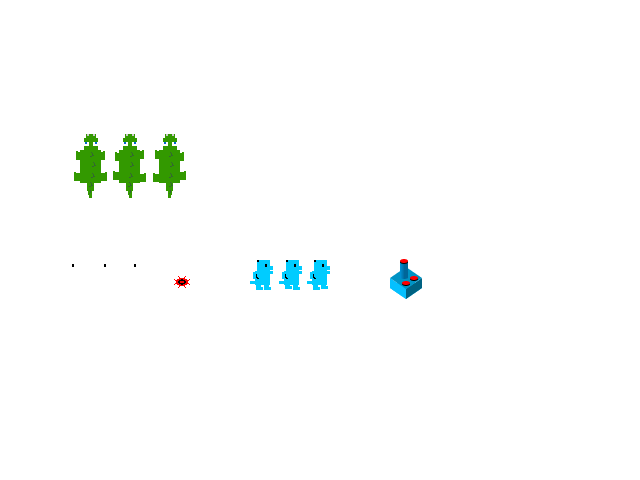
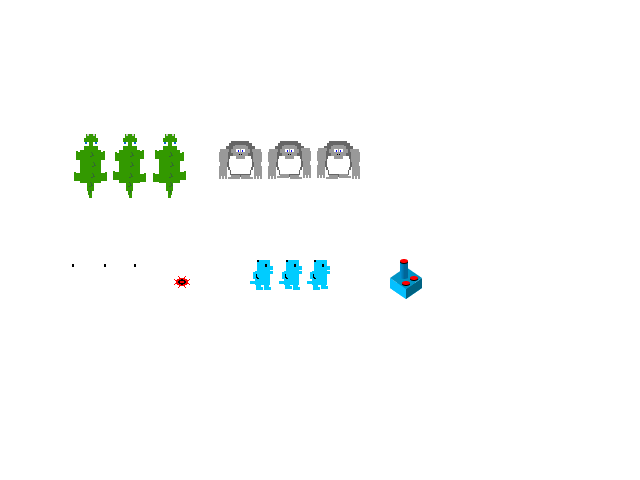
Gorilla

Changed region(s): [[0.3438, 0.2812, 0.5625, 0.375]]

diff --git a/SampleGames/Eater/index.html b/SampleGames/Eater/index.html
@@ -20,6 +20,7 @@
 	
     <script language="Javascript" src="scripts/glfx.js"></script>
     
+    <script language="Javascript" src="scripts/background.js"></script>
     <script language="Javascript" src="scripts/player.js"></script>
     <script language="Javascript" src="scripts/foots.js"></script>
     <script language="Javascript" src="scripts/hazards.js"></script>
@@ -123,7 +124,7 @@
     var hazardsContainer = jsGFwk.Container.createContainer("hazardsCloner", Hazards, true);
     
     jsGFwk.Scenes.create({name: "game", 
-        gameObjects: [Player, LevelController, footsContainer,
+        gameObjects: [Background, Player, LevelController, footsContainer,
                       hazardsContainer, Foreground, Timing] });
     
     jsGFwk.Scenes.create({name: "hud", 
@@ -147,6 +148,13 @@
              {left: 113, top: 134, width: 33, height: 64},
              {left: 153, top: 134, width: 33, height: 64}]);
         jsGFwk.Sprites.crocodile.loop(true);
+        
+        jsGFwk.Sprites.createSpriteCollection("gorilla",
+            jsGFwk.ResourceManager.graphics.main.image, 
+            [{left: 219, top: 141, width: 43, height: 38}, 
+             {left: 268, top: 141, width: 43, height: 38},
+             {left: 317, top: 141, width: 43, height: 38}]);
+        jsGFwk.Sprites.gorilla.loop(true);
         
         jsGFwk.Sprites.createSprite({ id: "live",
             graphic: jsGFwk.ResourceManager.graphics.main.image,
@@ -225,7 +233,6 @@
         
         jsGFwk.ResourceManager.sounds.pickTrack.audio.loop = false;
         jsGFwk.ResourceManager.sounds.pickTrack.audio.volume = 0.6;
-        
         
         jsGFwk.ResourceManager.sounds.mute();
         

diff --git a/SampleGames/Eater/scripts/background.js b/SampleGames/Eater/scripts/background.js
@@ -1,0 +1,8 @@
+var Background = {
+    id: 'background',
+    visible: true,
+    update: function () {},
+    draw: function (ctx) {
+        levels[gameConst.currentLevel].drawEnvironment && levels[gameConst.currentLevel].drawEnvironment(ctx);
+    }
+};

diff --git a/SampleGames/Eater/scripts/levels.js b/SampleGames/Eater/scripts/levels.js
@@ -5,6 +5,7 @@ var levels = [
               ],
      playerInit: { x: 40, y: 230 },
      parTime: 60,
+     drawEnvironment: function (ctx) { },
      trapParser: function trapParser(parser) { return parser; }
     },
     
